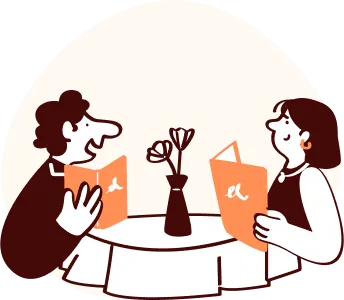
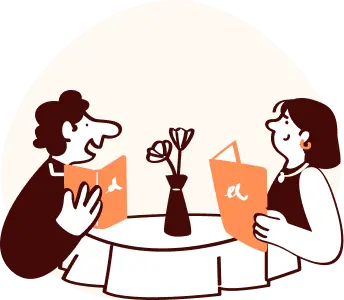
fix: Next.js Image警告を解消
- 画像サイズを統一し、差し替え
- height を調整

diff --git a/frontend/src/app/page.tsx b/frontend/src/app/page.tsx
@@ -74,7 +74,7 @@ export default function Home() {
                 alt={feature.title}
                 src={feature.src}
                 width={170}
-                height={149}
+                height={148}
                 className="mb-4"
               />
               <h3 className="mb-2 text-lg text-secondary-foreground">
